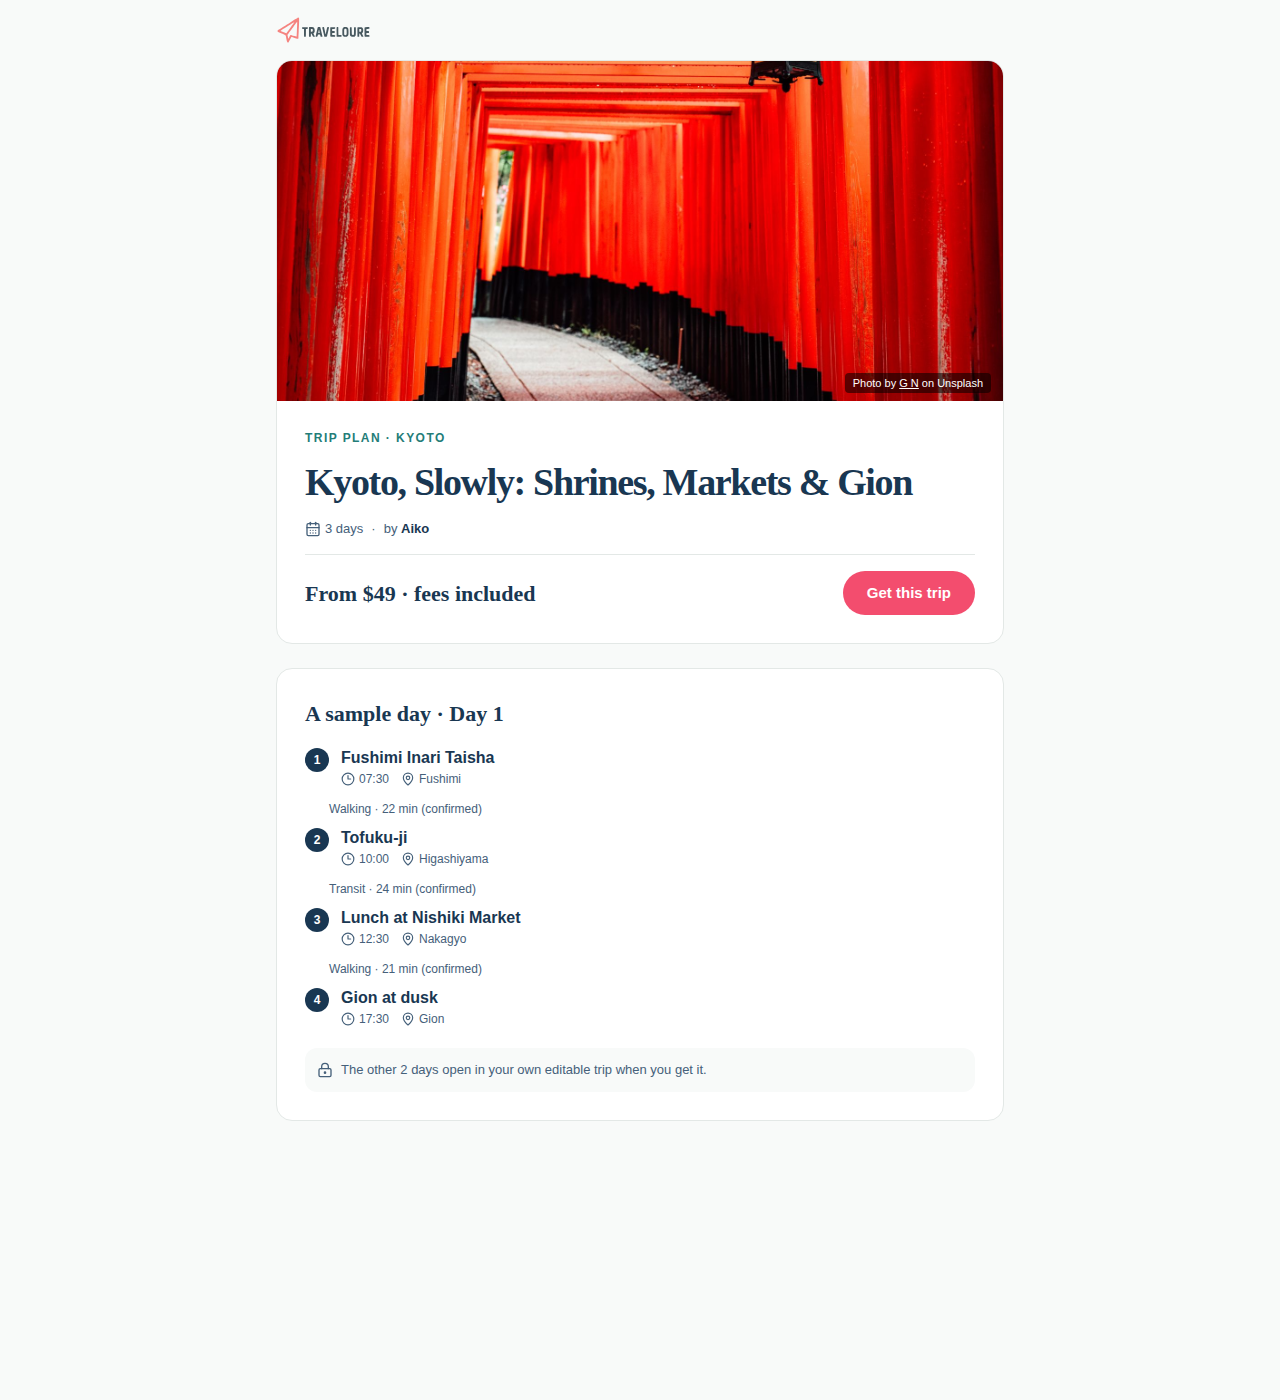
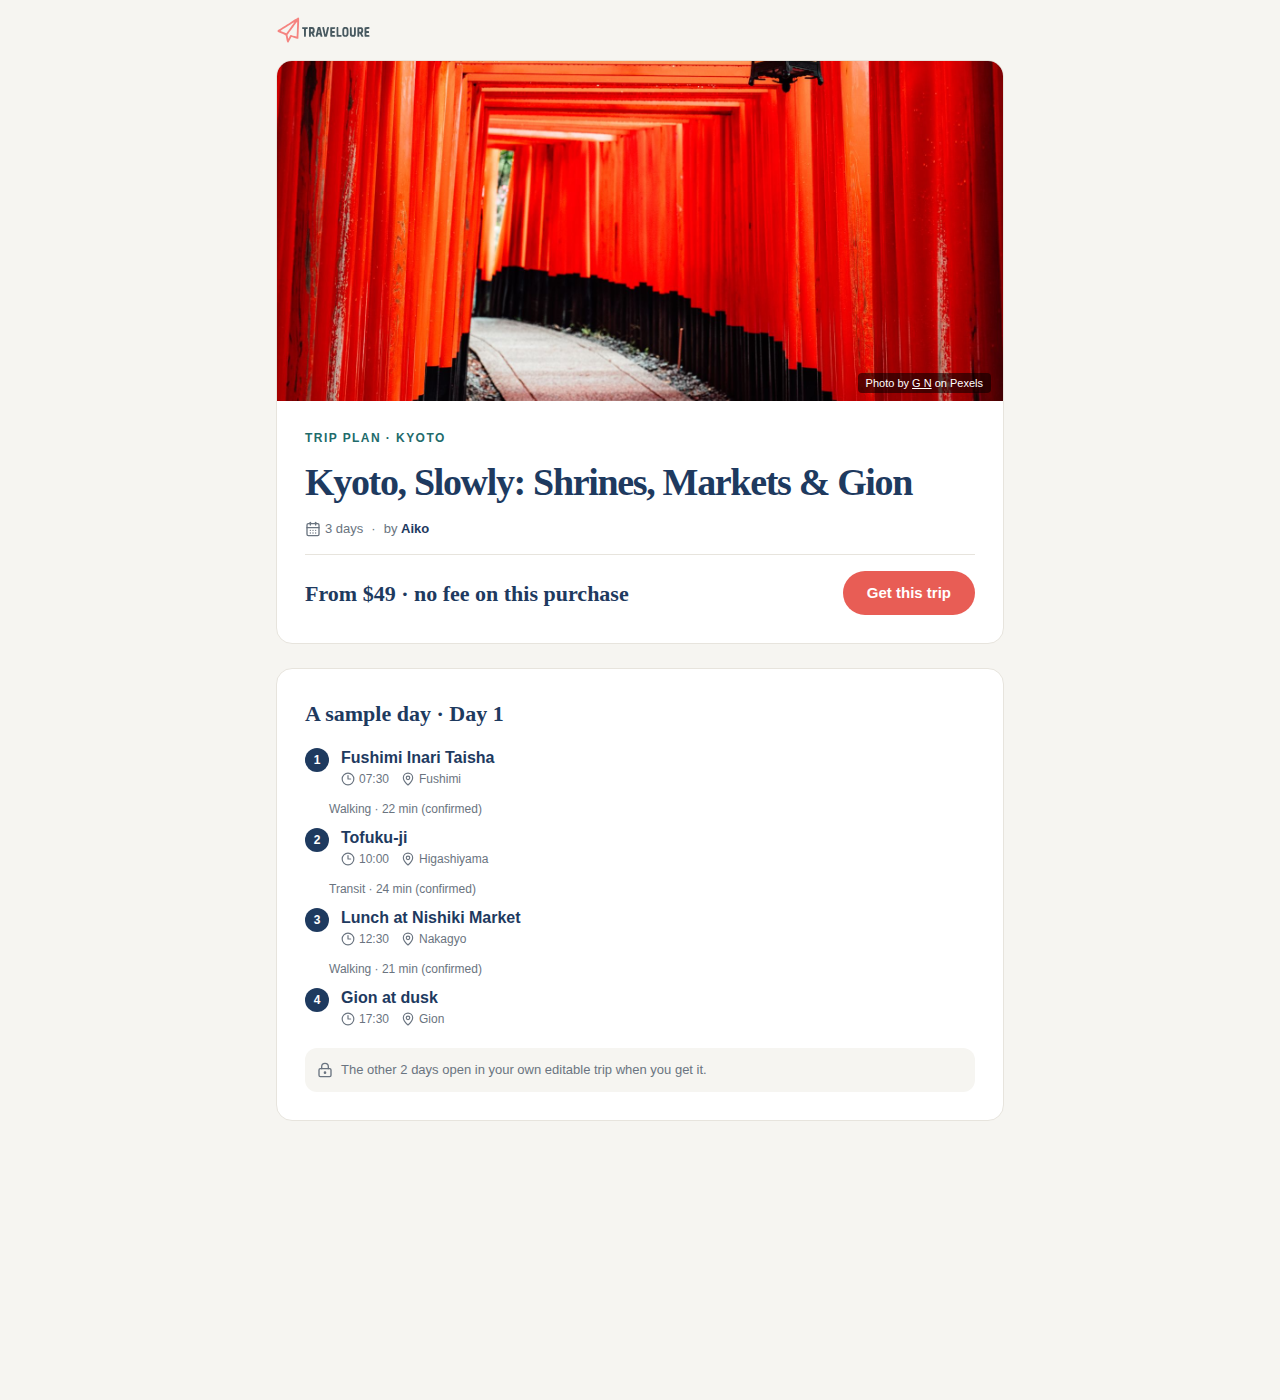
Preview page uses brand tokens, not hex (page-hex guard)
check-page-hex allows no new hex literals in client/src/pages. Every colour
on /t/:slug is now a --earn-* token, and the day pin's text uses the card
token so it stays readable in dark mode. Screenshots refreshed.

Claude-Session: https://claude.ai/code/session_01CWeDom38MS285EKBEDjDmA

Changed region(s): [[0.6562, 0.3993, 0.7812, 0.4607], [0.3125, 0.3993, 0.5, 0.43], [0.6562, 0.2457, 0.75, 0.2764]]

diff --git a/client/src/pages/ready-made-preview.tsx b/client/src/pages/ready-made-preview.tsx
@@ -31,7 +31,7 @@ export function ReadyMadePreviewView({ preview }: { preview: ReadyMadePreview })
   const day = preview.sampleDay;
   return (
     <main className="mx-auto max-w-[760px] px-4 pb-16" data-testid="rm-preview">
-      <section className="overflow-hidden rounded-2xl border border-[#e3e8e6] bg-white">
+      <section className="overflow-hidden rounded-2xl border border-[var(--earn-border)] bg-[var(--earn-card)]">
         {preview.heroImageUrl ? (
           <figure className="relative">
             <img src={preview.heroImageUrl} alt="" className="h-[260px] w-full object-cover sm:h-[340px]" data-testid="rm-preview-hero" />
@@ -47,30 +47,30 @@ export function ReadyMadePreviewView({ preview }: { preview: ReadyMadePreview })
           </figure>
         ) : null}
         <div className="space-y-4 p-5 sm:p-7">
-          <p className="text-[12px] font-semibold uppercase tracking-[0.12em] text-[#247d78]">{preview.planLabel} · {preview.market}</p>
-          <h1 className="text-[30px] font-semibold leading-[1.05] tracking-[-0.035em] text-[#193752] sm:text-[38px]" style={FRAUNCES} data-testid="rm-preview-title">
+          <p className="text-[12px] font-semibold uppercase tracking-[0.12em] text-[var(--earn-teal-ink)]">{preview.planLabel} · {preview.market}</p>
+          <h1 className="text-[30px] font-semibold leading-[1.05] tracking-[-0.035em] text-[var(--earn-navy)] sm:text-[38px]" style={FRAUNCES} data-testid="rm-preview-title">
             {preview.title}
           </h1>
-          <div className="flex flex-wrap items-center gap-2 text-[13px] text-[#45607a]">
+          <div className="flex flex-wrap items-center gap-2 text-[13px] text-[var(--earn-muted)]">
             <span className="inline-flex items-center gap-1" data-testid="rm-preview-days"><CalendarDays className="h-4 w-4" />{preview.durationDays} {preview.durationDays === 1 ? "day" : "days"}</span>
             <span aria-hidden>·</span>
             <span data-testid="rm-preview-expert">
               by{" "}
-              {preview.expert.handle ? <Link href={`/s/${preview.expert.handle}`} className="font-semibold text-[#193752] underline-offset-2 hover:underline">{preview.expert.name}</Link> : <strong className="text-[#193752]">{preview.expert.name}</strong>}
+              {preview.expert.handle ? <Link href={`/s/${preview.expert.handle}`} className="font-semibold text-[var(--earn-navy)] underline-offset-2 hover:underline">{preview.expert.name}</Link> : <strong className="text-[var(--earn-navy)]">{preview.expert.name}</strong>}
             </span>
             {preview.expert.localVerified ? (
-              <span className="inline-flex items-center gap-1 rounded-full bg-[#e7f3f2] px-2 py-0.5 text-[12px] font-semibold text-[#247d78]" data-testid="rm-preview-verified">
+              <span className="inline-flex items-center gap-1 rounded-full bg-[var(--earn-teal-wash)] px-2 py-0.5 text-[12px] font-semibold text-[var(--earn-teal-ink)]" data-testid="rm-preview-verified">
                 <BadgeCheck className="h-3.5 w-3.5" />Local · verified in {preview.market}
               </span>
             ) : null}
           </div>
-          <div className="flex flex-wrap items-center justify-between gap-3 border-t border-[#e3e8e6] pt-4">
+          <div className="flex flex-wrap items-center justify-between gap-3 border-t border-[var(--earn-border)] pt-4">
             {preview.priceLine ? (
-              <strong className="text-[22px] font-semibold text-[#193752]" style={FRAUNCES} data-testid="rm-preview-price">{preview.priceLine}</strong>
+              <strong className="text-[22px] font-semibold text-[var(--earn-navy)]" style={FRAUNCES} data-testid="rm-preview-price">{preview.priceLine}</strong>
             ) : <span />}
             <Link
               href={`/ready-made/${preview.id}`}
-              className="inline-flex h-11 items-center rounded-full bg-[#f34d6e] px-6 text-[15px] font-semibold text-white hover:bg-[#e03d5e]"
+              className="inline-flex h-11 items-center rounded-full bg-[var(--earn-coral-ink)] px-6 text-[15px] font-semibold text-white hover:opacity-90"
               data-testid="rm-preview-get"
             >
               Get this trip
@@ -80,19 +80,19 @@ export function ReadyMadePreviewView({ preview }: { preview: ReadyMadePreview })
       </section>
 
       {day ? (
-        <section className="mt-6 rounded-2xl border border-[#e3e8e6] bg-white p-5 sm:p-7" data-testid="rm-preview-sample-day">
-          <h2 className="text-[22px] font-semibold text-[#193752]" style={FRAUNCES}>A sample day · Day {day.dayNumber}</h2>
+        <section className="mt-6 rounded-2xl border border-[var(--earn-border)] bg-[var(--earn-card)] p-5 sm:p-7" data-testid="rm-preview-sample-day">
+          <h2 className="text-[22px] font-semibold text-[var(--earn-navy)]" style={FRAUNCES}>A sample day · Day {day.dayNumber}</h2>
           <ol className="mt-4 space-y-3">
             {day.stops.map((s, i) => (
               <li key={i} data-testid={`rm-preview-stop-${i}`}>
                 {i > 0 && sampleLegLine(day, i) ? (
-                  <p className="mb-2 ml-6 text-[12px] text-[#45607a]" data-testid={`rm-preview-leg-${i}`}>{sampleLegLine(day, i)}</p>
+                  <p className="mb-2 ml-6 text-[12px] text-[var(--earn-muted)]" data-testid={`rm-preview-leg-${i}`}>{sampleLegLine(day, i)}</p>
                 ) : null}
                 <div className="flex items-start gap-3">
-                  <span className="mt-0.5 inline-flex h-6 w-6 shrink-0 items-center justify-center rounded-full bg-[#193752] text-[12px] font-bold text-white">{i + 1}</span>
+                  <span className="mt-0.5 inline-flex h-6 w-6 shrink-0 items-center justify-center rounded-full bg-[var(--earn-navy)] text-[12px] font-bold text-[var(--earn-card)]">{i + 1}</span>
                   <div>
-                    <p className="font-semibold text-[#193752]">{s.title}</p>
-                    <p className="flex flex-wrap gap-x-3 text-[12px] text-[#45607a]">
+                    <p className="font-semibold text-[var(--earn-navy)]">{s.title}</p>
+                    <p className="flex flex-wrap gap-x-3 text-[12px] text-[var(--earn-muted)]">
                       {s.startTime ? <span className="inline-flex items-center gap-1"><Clock3 className="h-3.5 w-3.5" />{s.startTime}</span> : null}
                       {s.locationName ? <span className="inline-flex items-center gap-1"><MapPin className="h-3.5 w-3.5" />{s.locationName}</span> : null}
                     </p>
@@ -102,7 +102,7 @@ export function ReadyMadePreviewView({ preview }: { preview: ReadyMadePreview })
             ))}
           </ol>
           {preview.lockedDays > 0 ? (
-            <p className="mt-5 flex items-center gap-2 rounded-xl bg-[#f8faf9] p-3 text-[13px] text-[#45607a]" data-testid="rm-preview-locked">
+            <p className="mt-5 flex items-center gap-2 rounded-xl bg-[var(--earn-chip)] p-3 text-[13px] text-[var(--earn-muted)]" data-testid="rm-preview-locked">
               <LockKeyhole className="h-4 w-4" />
               The other {preview.lockedDays} {preview.lockedDays === 1 ? "day opens" : "days open"} in your own editable trip when you get it.
             </p>
@@ -126,7 +126,7 @@ export default function ReadyMadePreviewPage() {
   }, [data, slug, navigate]);
 
   return (
-    <div className="min-h-screen bg-[#f8faf9] text-[#193752]" style={{ fontFamily: '"DM Sans", "Inter", sans-serif' }}>
+    <div className="min-h-screen bg-[var(--earn-chip)] text-[var(--earn-navy)]" style={{ fontFamily: '"DM Sans", "Inter", sans-serif' }}>
       <header className="mx-auto flex max-w-[760px] items-center px-4 py-4">
         <Link href="/" aria-label="Traveloure home"><TraveloureLogo /></Link>
       </header>
@@ -135,7 +135,7 @@ export default function ReadyMadePreviewPage() {
       ) : isError || !data ? (
         <main className="mx-auto max-w-[760px] px-4 py-16 text-center">
           <h1 className="mb-2 text-[24px] font-semibold" style={FRAUNCES}>Trip not found</h1>
-          <p className="text-[#45607a]">This trip may have been withdrawn. <Link href="/ready-made" className="underline">See Ready Made Trips</Link></p>
+          <p className="text-[var(--earn-muted)]">This trip may have been withdrawn. <Link href="/ready-made" className="underline">See Ready Made Trips</Link></p>
         </main>
       ) : (
         <ReadyMadePreviewView preview={data} />
